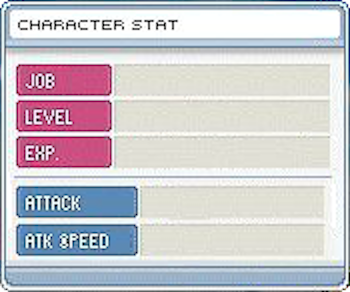
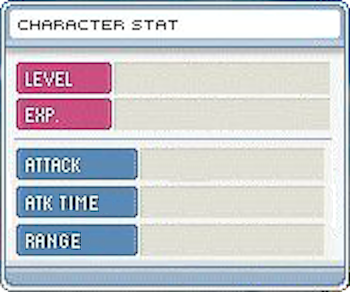
items

Changed region(s): [[0.0286, 0.1849, 0.9429, 0.6473], [0.0571, 0.7705, 0.3143, 0.863], [0.1143, 0.6473, 0.2857, 0.7397]]

diff --git a/js/defender.js b/js/defender.js
@@ -13,7 +13,7 @@ var Defender = (function(){
 	"bg_town_back0","bg_town_back1","bg_town_back2","bg_town_back3","bg_town_back4","bg_town_back5","bg_town_back6","bg_town_back7",
 	"box","battle","status","choose_soldier_back2","choose_soldier2","skill","up","upgrade","skill_back","item","equip","console","up","down","name","end_chat","chat","mission","chat_back","choose_transfer4","transfer",
 	"tag0","tag1","tag2","map_0",
-	"money","item_0","item_1","item_2","item_3",
+	"money","items",
 	"archer_stand","archer_attack","archer_hit","archer_attack_effect","archer_skill0_icon","archer_skill0_hit","archer_skill0_effect","archer_skill0","archer_skill1_icon",
 	"magician_stand","magician_attack","magician_hit","magician_attack_effect","magician_skill0_icon","magician_skill0_hit","magician_skill0_effect","magician_skill0","magician_skill1_icon","magician_skill1_hit","magician_skill1_effect","magician_skill1",
 	"rogue_stand","rogue_attack","rogue_hit","rogue_attack_effect","rogue_skill0_icon","rogue_skill0_hit","rogue_skill0_effect","rogue_skill0","rogue_skill0_hit_effect","rogue_skill1_icon","rogue_skill1_hit","rogue_skill1_effect","rogue_skill1",
@@ -34,7 +34,7 @@ var Defender = (function(){
 	var monsterIdList = ['snail','bat',"ironhog","orange-mushroom","shroom"];
 	var roleDescriptionList = ['beginner','archer','magician','rogue',"swordman"] ;
 	var monsterDescriptionList = ['snail','bat',"ironhog","orange-mushroom"] ;
-	var itemIdList = ["sword","sapphireStaff","scimitar","singleEarring"] ;
+	var itemIdList = ["sword","sapphireStaff","scimitar","singleEarring","hunterBow","workGlove","triangularZamadar","stolenFence"] ;
 	var soldierMap = {} ; 
 	var monsterMap = {} ;
 	var itemMap = {} ;
@@ -261,9 +261,10 @@ var Defender = (function(){
 			var item = {
 				name : data.name || "" ,
 				id : data.id || 0 ,
-				canvas : "item_"+data.id ,
+				canvas : "items" ,
 				atk : data.atk || 0 ,
 				speed : data.speed || 0 ,
+				range : data.range || 0 ,
 				effect : data.effect || [] ,
 				f : data.f ,
 				description : data.description || "" ,
@@ -492,6 +493,60 @@ var Defender = (function(){
 				}
 			});
 			itemMap["singleEarring"] = singleEarring ;
+
+			var hunterBow = common.createItem({
+				id : 4 ,
+				name : "Hunter Bow" ,
+				type : "weapon" ,
+				description : "Increase damage." ,
+				role : [1] ,
+				atk : 5 ,
+				f : function(d){
+					d.itemAtk += this.atk ;
+				}
+			});
+			itemMap["hunterBow"] = hunterBow ;
+
+			var workGlove = common.createItem({
+				id : 5 ,
+				name : "Work Glove" ,
+				type : "glove" ,
+				description : "Increase Range." ,
+				role : [0,1,2,3,4] ,
+				range : 5 ,
+				f : function(d){
+					d.itemRange += this.range ;
+				}
+			});
+			itemMap["workGlove"] = workGlove ;
+
+			var triangularZamadar = common.createItem({
+				id : 6 ,
+				name : "Triangular Zamadar" ,
+				type : "weapon" ,
+				description : "Increase damage." ,
+				role : [3] ,
+				atk : 4 ,
+				f : function(d){
+					d.itemAtk += this.atk ;
+				}
+			});
+			itemMap["triangularZamadar"] = triangularZamadar ;
+
+			var stolenFence = common.createItem({
+				id : 7 ,
+				name : "Stolen Fence" ,
+				type : "shield" ,
+				description : "Increase range and decrease attack time." ,
+				role : [3] ,
+				range : 3 ,
+				speed : -1 ,
+				f : function(d){
+					d.itemSpeed += this.speed ;
+					d.itemRange += this.range ;
+				}
+			});
+			itemMap["stolenFence"] = stolenFence ;
 
 		},
 		initSoldierMap : function(){
@@ -1475,7 +1530,7 @@ var Defender = (function(){
 				offsetX : 0 ,
 				offsetY : 9 ,
 				money : 10 ,
-				item : [{name:"sword",probability:0.1},{name:"sapphireStaff",probability:0.05},{name:"scimitar",probability:0.05},{name:"singleEarring",probability:0.05}] 
+				item : [{name:"sword",probability:0.1},{name:"sapphireStaff",probability:0.05},{name:"scimitar",probability:0.05},{name:"singleEarring",probability:0.05},{name:"hunterBow",probability:0.05},{name:"workGlove",probability:0.05},{name:"triangularZamadar",probability:0.05},{name:"stolenFence",probability:0.05}] 
 			});
 			monsterMap['snail'] = snail ;
 
@@ -1528,7 +1583,7 @@ var Defender = (function(){
 				offsetY : -10 ,
 				hitDy : 25 ,
 				money : 25 ,
-				item : [{name:"sword",probability:0.1},{name:"sapphireStaff",probability:0.05},{name:"scimitar",probability:0.05},{name:"singleEarring",probability:0.05}] 
+				item : [{name:"sword",probability:0.1},{name:"sapphireStaff",probability:0.05},{name:"scimitar",probability:0.05},{name:"singleEarring",probability:0.05},{name:"hunterBow",probability:0.05},{name:"workGlove",probability:0.05},{name:"triangularZamadar",probability:0.05},{name:"stolenFence",probability:0.05}] 
 			});
 			monsterMap['orange-mushroom'] = orangeMushroom ;
 
@@ -1544,7 +1599,7 @@ var Defender = (function(){
 				offsetY : 5 ,
 				hitDy : 25 ,
 				money : 20 ,
-				item : [{name:"sword",probability:0.1},{name:"sapphireStaff",probability:0.05},{name:"scimitar",probability:0.05},{name:"singleEarring",probability:0.05}] 
+				item : [{name:"sword",probability:0.1},{name:"sapphireStaff",probability:0.05},{name:"scimitar",probability:0.05},{name:"singleEarring",probability:0.05},{name:"hunterBow",probability:0.05},{name:"workGlove",probability:0.05},{name:"triangularZamadar",probability:0.05},{name:"stolenFence",probability:0.05}] 
 			});
 			monsterMap['shroom'] = shroom ;
 
@@ -1670,11 +1725,11 @@ var Defender = (function(){
 									canvas : item.canvas ,
 									x : this.x + di + 20,
 									y : this.y - 10 ,
-									nowFrame : 0 ,
+									nowFrame : item.id ,
 									delay : 70 ,
 									timer : 0 ,
 									totalFrame : 0,
-									width : canvasMap[item.canvas].width , 
+									width : canvasMap[item.canvas].width / itemIdList.length , 
 									height : canvasMap[item.canvas].height ,
 									ratio : 0.7 ,
 									effect : [{type:"rotate",speed:17,remain:30},{type:"gravity",remain:30,vy:-10}] ,
@@ -1938,6 +1993,7 @@ var Defender = (function(){
 				itemRange : 0 ,
 				speed : data.speed || 0 ,  // 1 attack need sec
 				tempSpeed : data.speed || 0 ,
+				tempRange : data.range || 0 ,
 				range : data.range || 0 ,
 				level : data.level || 1 ,
 				effectTotalFrame : data.effectTotalFrame || 1 ,
@@ -1973,12 +2029,14 @@ var Defender = (function(){
 				refreshState : function(){
 					this.itemAtk = 0 ;
 					this.itemSpeed = 0 ;
+					this.itemRange = 0 ;
 					for ( var e in this.equipment ){
 						if ( this.equipment[e] !== undefined )
 							this.equipment[e].f(this);
 					}
 					this.tempAtk = this.atk + this.itemAtk ;
 					this.tempSpeed = this.speed + this.itemSpeed ;
+					this.tempRange = this.range + this.itemRange ;
 				},
 				reset : function(){
 					this.state = "stand" ;
@@ -2016,7 +2074,7 @@ var Defender = (function(){
 						if ( this.skill[i].nowLevel > 0 ){
 							if (  this.skill[i].type === "active" && ( this.state === "stand" || this.state === this.skill[i].canvas.state ) && this.atkTimer <= 0  ){
 								this.tempAttackType = this.attackType ;
-								var result = this.skill[i].f(x,y,this.range,this.state,this[this.state],this.tempAtk,this.effect,this.skill[i].ratio,this.tempAttackType) ;
+								var result = this.skill[i].f(x,y,this.tempRange,this.state,this[this.state],this.tempAtk,this.effect,this.skill[i].ratio,this.tempAttackType) ;
 								var state = result.state ;
 								var done = result.done ;
 								if ( state === "stand" && done === true ){
@@ -2028,7 +2086,7 @@ var Defender = (function(){
 									this.skill[i].init(this.effect);
 								}
 							} else {
-								var result = this.skill[i].f(x,y,this.range,"null",this[this.state],this.tempAtk) ;
+								var result = this.skill[i].f(x,y,this.tempRange,"null",this[this.state],this.tempAtk) ;
 							}
 						}
 					}
@@ -2080,7 +2138,7 @@ var Defender = (function(){
 					} 
 					if ( this.state === "stand" ){
 						for ( var i = 0 ; i < monsterList.length ; i ++ ){
-							if ( Math.abs(monsterList[i].x-x) <= this.range && monsterList[i].hitAble === true ){
+							if ( Math.abs(monsterList[i].x-x) <= this.tempRange && monsterList[i].hitAble === true ){
 								this.atkTimer = this.tempSpeed ;
 								this.attack.timer = 0 ;
 								this.state = "attack" ;					
@@ -3281,7 +3339,7 @@ var Defender = (function(){
 			},
 			init : function(){
 				stage.init();
-				stage.initExp(200);
+				stage.initExp(400);
 				stage.addMonsterDelay = 100 ;
 			},
 			showAll : function(){
@@ -3309,7 +3367,7 @@ var Defender = (function(){
 			},
 			init : function(){
 				stage.init();
-				stage.initExp(250);
+				stage.initExp(800);
 				stage.addMonsterDelay = 30 ;
 			},
 			showAll : function(){
@@ -3358,7 +3416,7 @@ var Defender = (function(){
 			var x = town.character.item.x + 21 , y = town.character.item.y + 60;
 			for ( var i = page * 8 ; i < itemList.length && i < page * 8 + 8 ; i ++ ){
 				var item = itemList[i] ;
-				town.character.item.list.push({x:x,y:y,w:canvasMap[item.canvas].width,h:canvasMap[item.canvas].height,canvas:item.canvas}) ;
+				town.character.item.list.push({x:x,y:y,w:canvasMap[item.canvas].width/itemIdList.length,h:canvasMap[item.canvas].height,canvas:item.canvas,nowFrame:item.id}) ;
 				x += 72 ;
 				if ( i % 4 === 3 ){
 					x = town.character.item.x + 21 , y += 70 ;
@@ -3399,10 +3457,16 @@ var Defender = (function(){
 				}
 				var equip = [] ;
 				if ( mySoldierList[i].equipment["weapon"] !== undefined ){
-					equip.push({x : 555 , y : 305 , canvas:mySoldierList[i].equipment["weapon"].canvas , w : canvasMap[mySoldierList[i].equipment["weapon"].canvas].width , h : canvasMap[mySoldierList[i].equipment["weapon"].canvas].height , item : mySoldierList[i].equipment["weapon"] }) ;
+					equip.push({x : 555 , y : 305 , canvas:mySoldierList[i].equipment["weapon"].canvas , w : canvasMap[mySoldierList[i].equipment["weapon"].canvas].width / itemIdList.length , h : canvasMap[mySoldierList[i].equipment["weapon"].canvas].height , item : mySoldierList[i].equipment["weapon"] , nowFrame : mySoldierList[i].equipment["weapon"].id }) ;
 				} 
 				if ( mySoldierList[i].equipment["ear"] !== undefined ){
-					equip.push({x : 555 , y : 235 , canvas:mySoldierList[i].equipment["ear"].canvas , w : canvasMap[mySoldierList[i].equipment["ear"].canvas].width , h : canvasMap[mySoldierList[i].equipment["ear"].canvas].height , item : mySoldierList[i].equipment["ear"] }) ;
+					equip.push({x : 555 , y : 235 , canvas:mySoldierList[i].equipment["ear"].canvas , w : canvasMap[mySoldierList[i].equipment["ear"].canvas].width / itemIdList.length , h : canvasMap[mySoldierList[i].equipment["ear"].canvas].height , item : mySoldierList[i].equipment["ear"]  , nowFrame : mySoldierList[i].equipment["ear"].id }) ;
+				} 
+				if ( mySoldierList[i].equipment["shield"] !== undefined ){
+					equip.push({x : 621 , y : 305 , canvas:mySoldierList[i].equipment["shield"].canvas , w : canvasMap[mySoldierList[i].equipment["shield"].canvas].width / itemIdList.length , h : canvasMap[mySoldierList[i].equipment["shield"].canvas].height , item : mySoldierList[i].equipment["shield"]  , nowFrame : mySoldierList[i].equipment["shield"].id }) ;
+				} 
+				if ( mySoldierList[i].equipment["glove"] !== undefined ){
+					equip.push({x : 356 , y : 372 , canvas:mySoldierList[i].equipment["glove"].canvas , w : canvasMap[mySoldierList[i].equipment["glove"].canvas].width / itemIdList.length , h : canvasMap[mySoldierList[i].equipment["glove"].canvas].height , item : mySoldierList[i].equipment["glove"]  , nowFrame : mySoldierList[i].equipment["glove"].id }) ;
 				} 
 				this.soldierList.push({x:x,y:y,w:canvasMap['choose_soldier_back2'].width,h:canvasMap['choose_soldier_back2'].height,canvas:'choose_soldier_back2',skill:skill,equip:equip});
 			}
@@ -3599,7 +3663,8 @@ var Defender = (function(){
 			town.initConsole();
 			town.item = this.soldierList[i].equip[j].item ;
 			town.character.console.icon.canvas = town.item.canvas ;
-			town.character.console.icon.w = canvasMap[town.item.canvas].width ;
+			town.character.console.icon.nowFrame = town.item.id ;
+			town.character.console.icon.w = canvasMap[town.item.canvas].width / itemIdList.length;
 			town.character.console.icon.h = canvasMap[town.item.canvas].height ;
 			town.character.console.icon.x += 10 , town.character.console.icon.y += 10 ; 
 			town.character.console.name.x += 10 , town.character.console.name.y += 10 ;
@@ -3613,6 +3678,9 @@ var Defender = (function(){
 			} 
 			if ( town.item.speed !== undefined && town.item.speed !== 0 ){
 				town.character.console.content.push({x:town.character.console.content[0].x,y:0,text:"Attack Time : "+town.item.speed});
+			} 
+			if ( town.item.range !== undefined && town.item.range !== 0 ){
+				town.character.console.content.push({x:town.character.console.content[0].x,y:0,text:"Range : "+town.item.range});
 			} 
 		},
 		setMouseEnterEquipDblclick : function(i,j){
@@ -3640,7 +3708,8 @@ var Defender = (function(){
 			town.initConsole();
 			town.item = itemList[i] ;
 			town.character.console.icon.canvas = itemList[i].canvas ;
-			town.character.console.icon.w = canvasMap[itemList[i].canvas].width ;
+			town.character.console.icon.nowFrame = itemList[i].id ;
+			town.character.console.icon.w = canvasMap[itemList[i].canvas].width / itemIdList.length ;
 			town.character.console.icon.h = canvasMap[itemList[i].canvas].height ;
 			town.character.console.icon.x += 10 , town.character.console.icon.y += 10 ; 
 			town.character.console.name.x += 10 , town.character.console.name.y += 10 ;
@@ -4201,23 +4270,31 @@ var Defender = (function(){
 			}
 			for ( var i = 0 ; i < mySoldierList.length ; i ++ ){
 				if ( mouseOver === "soldier" + i ){
-					gameCtx.fillText(mySoldierList[i].name,this.character.status.x+120,this.character.status.y+88);
-					gameCtx.fillText(mySoldierList[i].level,this.character.status.x+120,this.character.status.y+127);
-					gameCtx.fillText(mySoldierList[i].nowExp+"/"+mySoldierList[i].goalExp,this.character.status.x+120,this.character.status.y+163);
+					gameCtx.fillText(mySoldierList[i].level+" (" +mySoldierList[i].transferLevel+")" ,this.character.status.x+120,this.character.status.y+88);
+					gameCtx.fillText(mySoldierList[i].nowExp+"/"+mySoldierList[i].goalExp,this.character.status.x+120,this.character.status.y+123);
 					var atkText = mySoldierList[i].atk ;
 					if ( mySoldierList[i].itemAtk > 0 ){
 						atkText += " (+" + mySoldierList[i].itemAtk + ")" ;
 					} else if ( mySoldierList[i].itemAtk < 0  ){
 						atkText += " (-" + mySoldierList[i].itemAtk + ")" ;
 					}
-					gameCtx.fillText(atkText,this.character.status.x+147,this.character.status.y+212);
+					gameCtx.fillText(atkText,this.character.status.x+147,this.character.status.y+174);
 					var speedText = mySoldierList[i].speed ;
 					if ( mySoldierList[i].itemSpeed > 0 ){
 						speedText += " (+" + mySoldierList[i].itemSpeed + ")" ;
 					} else if ( mySoldierList[i].itemSpeed < 0  ){
 						speedText += " (" + mySoldierList[i].itemSpeed + ")" ;
 					}
-					gameCtx.fillText(speedText,this.character.status.x+147,this.character.status.y+250);
+					gameCtx.fillText(speedText,this.character.status.x+147,this.character.status.y+212);
+
+					var rangeText = mySoldierList[i].range ;
+					if ( mySoldierList[i].itemRange > 0 ){
+						rangeText += " (+" + mySoldierList[i].itemRange + ")" ;
+					} else if ( mySoldierList[i].itemRange < 0  ){
+						rangeText += " (" + mySoldierList[i].itemRange + ")" ;
+					}
+					gameCtx.fillText(rangeText,this.character.status.x+147,this.character.status.y+250);
+
 					for ( var j = 0 ; j < this.soldierList[i].skill.length ; j ++ ){
 						common.drawObject(this.soldierList[i].skill[j]);
 						common.drawObject(this.soldierList[i].skill[j].icon);
